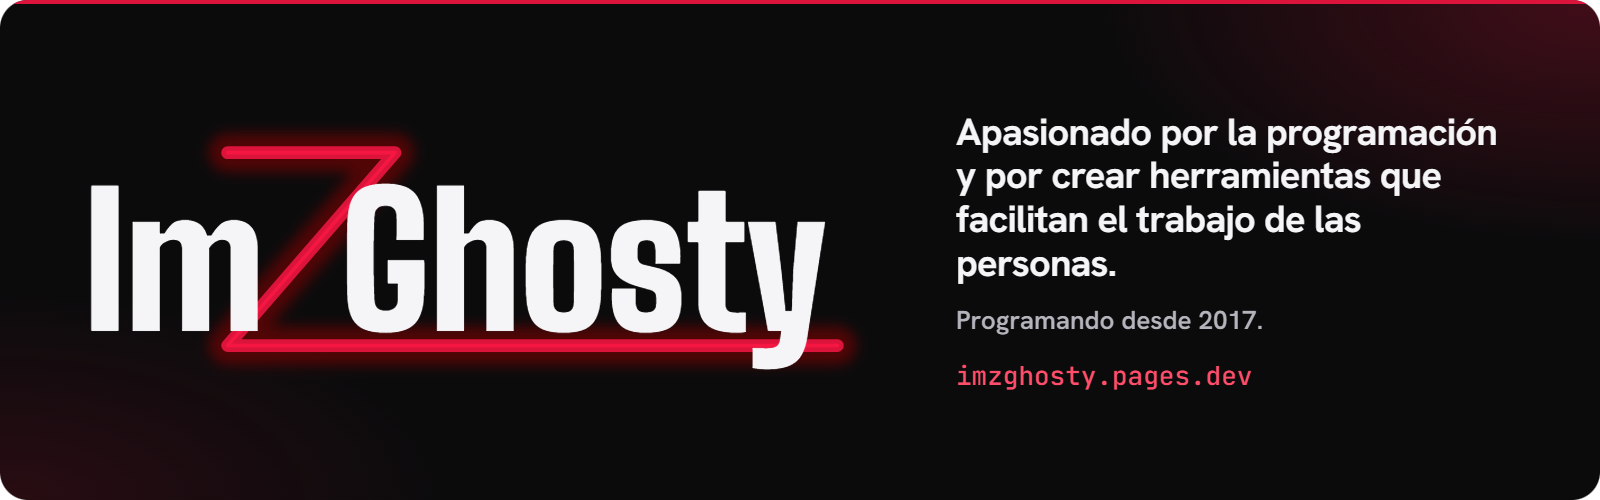
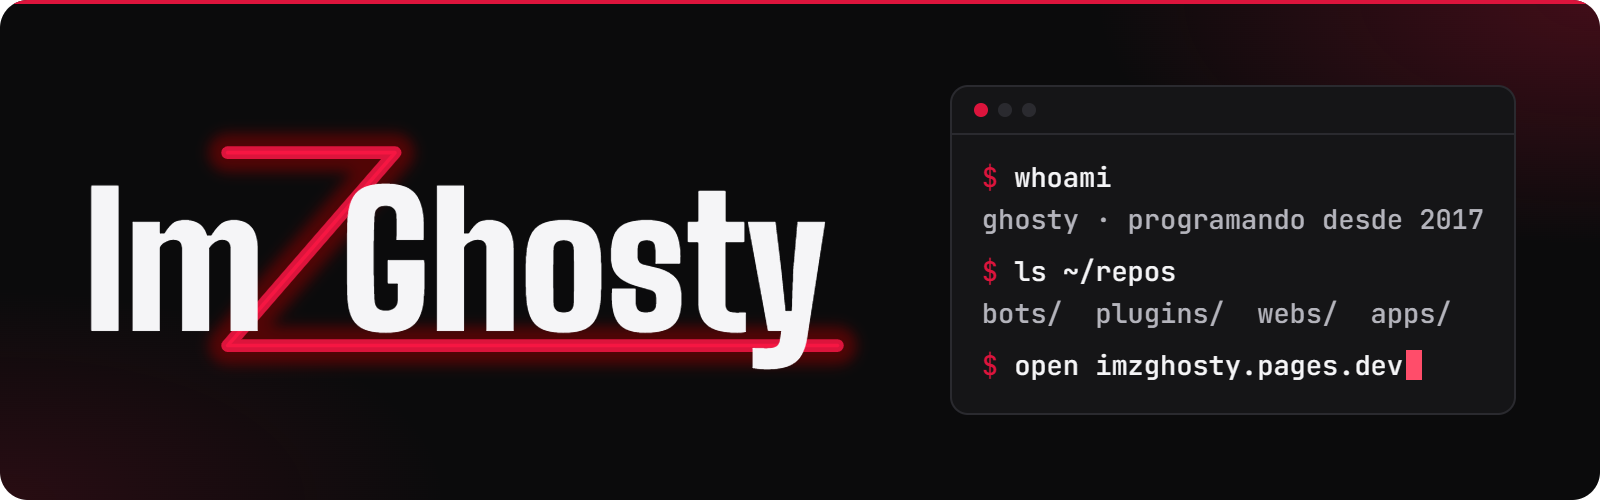
Rewrite the profile as the workshop behind the portfolio
Terminal banner, what lives in the private repos, TaskMaster, a changelog
and how I work, instead of repeating the portfolio's texts and tools card.

diff --git a/README.md b/README.md
@@ -1,27 +1,44 @@
-<a href="https://imzghosty.pages.dev"><img src="assets/banner.png" width="100%" alt="ImZGhosty. Apasionado por la programación y por crear herramientas que facilitan el trabajo de las personas. Programando desde 2017."></a>
+<a href="https://imzghosty.pages.dev"><img src="assets/banner.png" width="100%" alt="ImZGhosty. Una terminal: whoami, ghosty, programando desde 2017. ls ~/repos: bots, plugins, webs y apps. open imzghosty.pages.dev"></a>
 
-## Hola, soy ImZGhosty
+Soy Ghosty. Programo desde 2017, casi siempre con la misma idea: que a alguien le cueste menos hacer su trabajo. Si vienes del [portafolio](https://imzghosty.pages.dev), ya viste el escaparate; esto es el taller.
 
-Me apasiona la programación desde que escribí mis primeras líneas de HTML en el bloc de notas del colegio. Desde 2017 creo proyectos propios y para otros con una idea en común: que le faciliten el trabajo a alguien. Llevo más de 35 proyectos construidos.
+### ¿Por qué hay tan pocos repos públicos?
 
-Entiendo cómo funcionan los sistemas por dentro y me apoyo en herramientas de IA como Claude Code y Codex como referencia y para avanzar más rápido. Lo que entrego lo reviso y lo pruebo, y sigo aprendiendo con cada proyecto.
+Porque casi todo lo que programo es para clientes o comunidades, y ese código se queda privado. Esto es lo que hay detrás:
 
-### Lo que he hecho
+| Qué | Para qué | Con qué |
+|---|---|---|
+| **Bots de Discord** | Soporte, moderación y organización de comunidades | TypeScript, JavaScript, Discord.js |
+| **Plugins de Minecraft** | Sistemas propios para servidores | Java, Paper, Velocity, Gradle |
+| **Webs** | Sitios rápidos y bilingües, paneles de administración | Astro, React, Next.js, Tailwind |
+| **Apps** | Escritorio y celular para el día a día de un negocio | Tauri, Flutter |
+| **Backend** | APIs y datos en tiempo real | Node.js, Express, Socket.IO, PostgreSQL, MongoDB, Redis |
 
-- **Desarrollo web:** sitios rápidos y bilingües, tarjetas de presentación y paneles de administración.
-- **Automatización y bots:** asistentes que atienden soporte, moderan y organizan comunidades en línea.
-- **Servidores de videojuegos:** servidores de Minecraft con sistemas propios, sobre paneles como Pterodactyl.
-- **Servidores Linux:** máquinas en OVH, ReliableSite y Sparked Host, con Nginx, Apache y Docker.
-- **Aplicaciones:** programas de escritorio y móvil para el día a día de un negocio.
-- **Backend y datos:** APIs, bases de datos y servicios que comparten información en tiempo real.
-- **Ciberseguridad y redes:** pruebas de seguridad en aplicaciones web con Burp Suite y redes Cisco.
+Y para que todo eso corra: Linux, Docker, Nginx, Pterodactyl, PM2 y Cloudflare.
 
-<img src="assets/herramientas.png" width="100%" alt="Herramientas: Java, TypeScript, JavaScript, Rust, Dart, HTML, CSS, React, Next.js, Astro, Tailwind, Vite, Node.js, Discord.js, Express, Socket.IO, PostgreSQL, MongoDB, MySQL, MariaDB, Redis, SQLite, Linux, Docker, Nginx, Apache, Pterodactyl, PM2, Cloudflare, Git, GitHub, Paper, Velocity, Geyser, Gradle, Tauri, Flutter, Burp Suite, Cisco, Claude Code, Codex, Cursor, Kimi, OpenClaw y Qwen.">
+### Lo que sí puedes probar
 
-### Dónde encontrarme
+**[TaskMaster](https://github.com/Im-ZGhosty/taskmaster-releases)**: app de escritorio para Windows para organizar tareas y proyectos. Funciona sin conexión y se usa casi entera con el teclado. [Descargar la última versión](https://github.com/Im-ZGhosty/taskmaster-releases/releases/latest).
 
-**[Portafolio](https://imzghosty.pages.dev)** · [Discord](https://discord.gg/9q2NhvP6vy) · [YouTube](https://youtube.com/@imzghosty) · [Instagram](https://www.instagram.com/_imzghosty_/) · [TikTok](https://tiktok.com/@imzghosty) · [Twitch](https://twitch.tv/imzghosty)
+### Changelog
 
-¿Tienes una oferta de trabajo o un proyecto? Escríbeme por Discord; mi correo estará disponible muy pronto.
+```text
+2026  primeros clientes · desarrollo asistido por IA
+2025  desarrollo web y de sistemas, de lleno
+2022  una plataforma con cientos de usuarios conectados a la vez
+2021  mi primera herramienta usada por decenas de comunidades
+2017  primeros proyectos por mi cuenta
+ ...  primeras líneas de HTML, en el bloc de notas del colegio
+```
 
-<sub>Los logos de las herramientas pertenecen a sus dueños; fuentes y licencias en [assets/CREDITS.txt](assets/CREDITS.txt).</sub>
+### Cómo trabajo
+
+- Me gusta entender cómo funciona un sistema por dentro antes de construir encima.
+- Uso IA (Claude Code y Codex) como copiloto: me da referencias y velocidad, pero lo que entrego lo reviso y lo pruebo yo.
+- Sigo aprendiendo con cada proyecto.
+
+### Hablemos
+
+Para trabajo o proyectos, escríbeme por **[Discord](https://discord.gg/9q2NhvP6vy)** (el correo llega pronto). También estoy en [YouTube](https://youtube.com/@imzghosty) · [Instagram](https://www.instagram.com/_imzghosty_/) · [TikTok](https://tiktok.com/@imzghosty) · [Twitch](https://twitch.tv/imzghosty).
+
+<sub>¿Encontraste un bug en TaskMaster? Enciende la batiseñal: [abre un issue](https://github.com/Im-ZGhosty/taskmaster-releases/issues).</sub>
